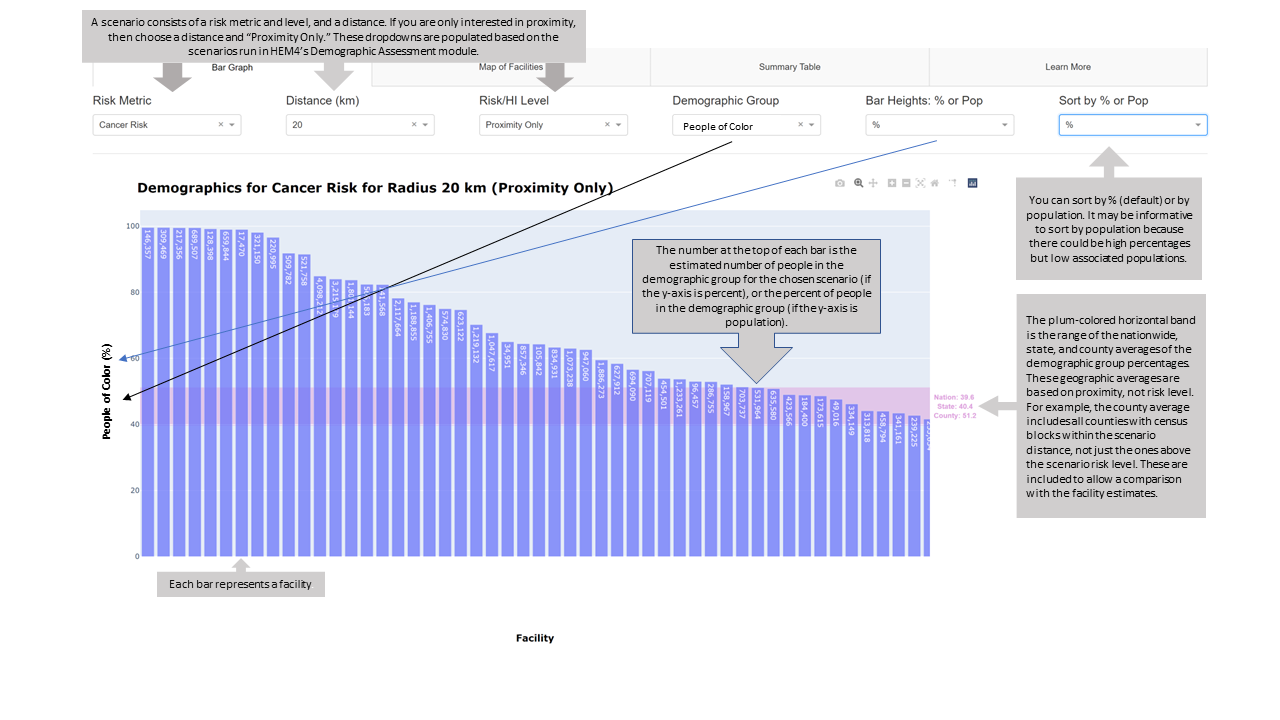
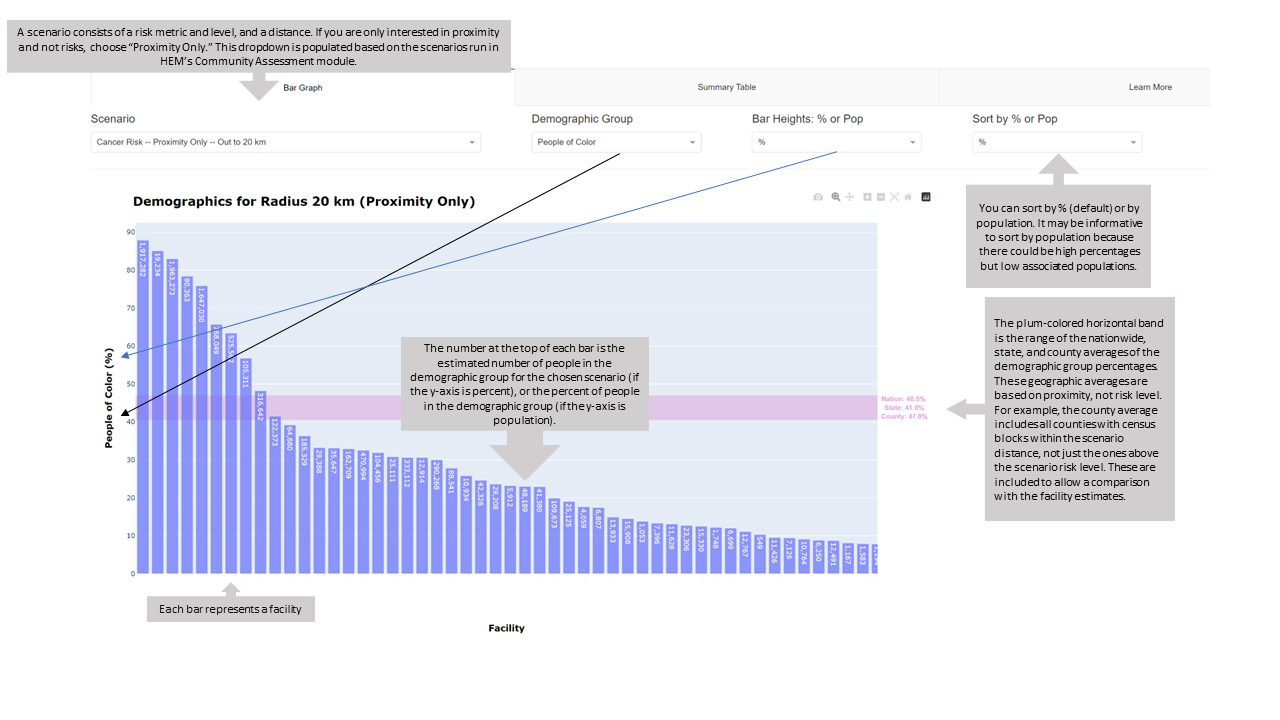
Alleviate memory overflows and updated the About Bar Graph image

diff --git a/com/sca/hem4/writer/excel/summary/MultiPathway.py b/com/sca/hem4/writer/excel/summary/MultiPathway.py
@@ -3,6 +3,7 @@ from com.sca.hem4.writer.excel.FacilityMaxRiskandHI import FacilityMaxRiskandHI
 from com.sca.hem4.writer.excel.RiskBreakdown import *
 from com.sca.hem4.writer.excel.InputSelectionOptions import InputSelectionOptions
 from com.sca.hem4.log.Logger import Logger
+import os
 
 risk_contrib = 'risk_contrib'
 category = 'category'
@@ -140,32 +141,64 @@ class MultiPathway(ExcelWriter):
             anyOuters = "N"
             for f in listOuter:
                 allouter = AllOuterReceptors(targetDir=targetDir, acuteyn=acute_yn, filenameOverride=f)
-                allouter_df = allouter.createDataframe()
+                
+                # If AllOuter file is over 1GB, then use chunking option in read_csv
+                fpath = os.path.join(targetDir, f)
+                if os.path.getsize(fpath) < 10000000000:
+                    allouter_df = allouter.createDataframe()
+                    usechunks = "N"
+                else:
+                    allouter_chunks = allouter.createBigDataframe(fpath)
+                    usechunks = "Y"
 
-                if not allouter_df.empty:
+                if usechunks == "N":
                     
-                    anyOuters = "Y"
-                    
-                    # Only keep populated or user receptors that are not overlapped
-                    allouter_df = allouter_df.loc[((allouter_df[population] > 0) | (allouter_df[rec_type] == 'P')) &
-                                                  (allouter_df[overlap] == 'N')]
-#                    # Only keep records that have non-zero population or represent non-overlapped user receptors
-#                    allouter_df = allouter_df.loc[((allouter_df[block].str.contains('U')) | (allouter_df[population] > 0)) &
-#                                                  (allouter_df[overlap] == 'N')]
-    
-                    allouter_df = allouter_df.groupby(by=[fips, block, population, lat, lon, pollutant], as_index=False) \
-                        .sum().reset_index(drop=True)
-    
-                    allouter_df['risk'] = allouter_df.apply(lambda x: self.calculateRisk(x[pollutant], x[conc]), axis=1)
-    
-                    # keep all records but give default designation of 'POL' to pollutants which are not in crosswalk
-                    alloutermerged_df = allouter_df.merge(pollutantCrosswalk_df, left_on=[pollutant], right_on=[pollutant_name], how="left")
-                    alloutermerged_df[designation] = alloutermerged_df[designation].fillna('POL')
-    
-                    outer_summed = alloutermerged_df.groupby(by=[fips, block, population, lat, lon, designation], as_index=False) \
-                        .sum().reset_index(drop=True)
-                    allouter_summed = pd.concat([allouter_summed, outer_summed])
+                    if not allouter_df.empty:
+                        
+                        anyOuters = "Y"
+                        
+                        # Only keep populated or user receptors that are not overlapped
+                        allouter_df = allouter_df.loc[((allouter_df[population] > 0) | (allouter_df[rec_type] == 'P')) &
+                                                      (allouter_df[overlap] == 'N')]
+                        allouter_df = allouter_df.groupby(by=[fips, block, population, lat, lon, pollutant], as_index=False) \
+                            .sum().reset_index(drop=True)
+        
+                        allouter_df['risk'] = allouter_df.apply(lambda x: self.calculateRisk(x[pollutant], x[conc]), axis=1)
+        
+                        # keep all records but give default designation of 'POL' to pollutants which are not in crosswalk
+                        alloutermerged_df = allouter_df.merge(pollutantCrosswalk_df, left_on=[pollutant], right_on=[pollutant_name], how="left")
+                        alloutermerged_df[designation] = alloutermerged_df[designation].fillna('POL')
+                                
+                        outer_summed = alloutermerged_df.groupby(by=[fips, block, population, lat, lon, designation], as_index=False) \
+                            .sum().reset_index(drop=True)
+                        allouter_summed = pd.concat([allouter_summed, outer_summed])
 
+                else:
+                    
+                    # AllOuter is in chunks
+                    for allouter_df in allouter_chunks:
+                        
+                        if not allouter_df.empty:
+                            
+                            anyOuters = "Y"
+                            
+                            # Only keep populated or user receptors that are not overlapped
+                            allouter_df = allouter_df.loc[((allouter_df[population] > 0) | (allouter_df[rec_type] == 'P')) &
+                                                          (allouter_df[overlap] == 'N')]
+                            allouter_df = allouter_df.groupby(by=[fips, block, population, lat, lon, pollutant], as_index=False) \
+                                .sum().reset_index(drop=True)
+            
+                            allouter_df['risk'] = allouter_df.apply(lambda x: self.calculateRisk(x[pollutant], x[conc]), axis=1)
+            
+                            # keep all records but give default designation of 'POL' to pollutants which are not in crosswalk
+                            alloutermerged_df = allouter_df.merge(pollutantCrosswalk_df, left_on=[pollutant], right_on=[pollutant_name], how="left")
+                            alloutermerged_df[designation] = alloutermerged_df[designation].fillna('POL')
+            
+                            outer_summed = alloutermerged_df.groupby(by=[fips, block, population, lat, lon, designation], as_index=False) \
+                                .sum().reset_index(drop=True)
+                            allouter_summed = pd.concat([allouter_summed, outer_summed])
+                        
+                        
             if anyOuters == "Y":
                 riskblocks_df = pd.concat([inner_summed, allouter_summed])
             else:

diff --git a/com/sca/hem4/support/ElevHill.py b/com/sca/hem4/support/ElevHill.py
@@ -40,71 +40,29 @@ class ElevHill:
         Using USGS 10m resolution DEM data, get elevations for a list of coordinates
         where the coordinates are a list of tuples organized as (longitude, latitude).
         """
+
         # Get elevations for batches of 100 coordinates
-        
-        # First determine what resolution of elevation data is available
-        min_x = min(coords)[0]
-        min_y = min(coords)[1]
-        max_x = max(coords)[0]
-        max_y = max(coords)[1]
-        
-        # If there is only a single coordinate or they are all the same, create a 1x1km box.
-        if min_x == max_x or min_y == max_y:
-            r_earth = 6371 # radius of earth in km
-            lat2 = min_y  + (0.5 / r_earth) * (180 / pi)
-            lon2 = min_x + (0.5 / r_earth) * (180 / pi) / cos(np.deg2rad(min_y))
-            lat1 = min_y  - (0.5 / r_earth) * (180 / pi)
-            lon1 = min_x - (0.5 / r_earth) * (180 / pi) / cos(np.deg2rad(min_y))
-        else:
-            lat1 = min_y
-            lon1 = min_x
-            lat2 = max_y
-            lon2 = max_x
-                    
-        bbox = (lon1, lat1, lon2, lat2)
-        # try:
-        #     src = py3dep.query_3dep_sources(bbox)
-        # except BaseException as e:
-        #     raise ValueError("USGS elevation server unavailable")
-        # else:
-        #     src_dict = src.groupby('dem_res')['OBJECTID'].count().to_dict()
-        
-        
-        # If Canada, use airmap (30m) otherwise use 10m
-        if min_y > 42 and max_y < 83 and min_x > -141 and max_x < -53:
-            ressrc = 'airmap'
-        else:
-            ressrc = 'tep'
-            # if '10m' in src_dict:
-            #     ressrc = 'tep'
-            # else:
-            #     if '30m' in src_dict:
-            #         ressrc = 'airmap'
-            #     else:
-            #         ressrc = 'None'
-            #         raise ValueError("USGS elevation server unavailable")
-        
-        print("Elevation bycoords using source ", ressrc)
-                    
+                          
         elevation_data = []
         batch_size = 100
-        if len(coords) > 1:
-            for i in range(0, len(coords), batch_size):
-                batch = coords[i:i+batch_size]
-                
-                try:
-                    batch_elev = py3dep.elevation_bycoords(batch, source=ressrc)
-                except BaseException as e:
-                    raise ValueError("USGS elevation server unavailable")
-                else:
-                    elevation_data.extend(batch_elev)
-        else:
+        for i in range(0, len(coords), batch_size):
+            batch = coords[i:i+batch_size]
+            
             try:
-                batch_elev = py3dep.elevation_bycoords(coords, source=ressrc)
+                # first try to use 10m elevation data
+                batch_elev = py3dep.elevation_bycoords(batch, source='tep')
             except BaseException as e:
-                raise ValueError("USGS elevation server unavailable")
+                # 10m did not work. Now try 30m.
+                try:
+                    batch_elev = py3dep.elevation_bycoords(batch, source='airmap')
+                except BaseException as e:
+                    # 30m failed too
+                    raise ValueError("USGS elevation server unavailable")
             else:
-                elevation_data.append(batch_elev)
+                if len(coords) > 1:
+                    elevation_data.extend(batch_elev)
+                else:
+                    elevation_data.append(batch_elev)
 
         elev_rounded = [round(e) for e in elevation_data]
         
@@ -228,7 +186,7 @@ class ElevHill:
         center_lat : Float
             Latitude of center of the receptors.
         model : Class
-            Model class used to hold 30m elevation dataframe
+            Model class used to hold 30m elevation dataframe for this facility
 
         Returns
         -------

diff --git a/com/sca/hem4/writer/csv/AllOuterReceptors.py b/com/sca/hem4/writer/csv/AllOuterReceptors.py
@@ -820,7 +820,7 @@ class AllOuterReceptors(CsvWriter, InputFile):
         return df.fillna("")
     
 
-    def createBigDataframe(self):
+    def createBigDataframe(self, fname):
         # Type setting for CSV reading
         if self.acute_yn == 'N':
             self.numericColumns = [lat, lon, conc, elev, population]
@@ -829,10 +829,14 @@ class AllOuterReceptors(CsvWriter, InputFile):
             
         self.strColumns = [fips, block, source_id, 'emis_type', pollutant, overlap, rec_type]
 
+        dtypes = {col: str for col in self.strColumns}
+        floatTypes = {col: np.float64 for col in self.numericColumns}
+        dtypes.update(floatTypes)
+
         colnames = self.getColumns()
         self.skiprows = 1
-        reader = pd.read_csv(f, skiprows=self.skiprows, names=colnames, dtype=str, 
-                             na_values=[''], keep_default_na=False, chunksize=100000)
+        reader = pd.read_csv(fname, skiprows=self.skiprows, names=colnames, dtype=dtypes, 
+                             na_values=[''], keep_default_na=False, chunksize=1000000)
 
         return reader
     

diff --git a/com/sca/hem4/gui/EJ.py b/com/sca/hem4/gui/EJ.py
@@ -136,7 +136,7 @@ class EJ(Page):
                                            justify="left", text=step3_text)
         self.step3_instructions.grid(row=1, column=1, padx=5, sticky="W", columnspan=4, rowspan=3)
 
-        self.add_config(initYN="Y", radius=50, cancer_risk=1, hi_risk=1)
+        self.add_config(initYN="Y", radius=None, cancer_risk=None, hi_risk=None)
         self.create_add_config()
 
         ru = PIL.Image.open('images\icons8-create-48.png').resize((30,30))
@@ -180,7 +180,7 @@ class EJ(Page):
 
         self.combinations = {}
 
-        self.add_config(initYN="Y", radius=50, cancer_risk=1, hi_risk=1)
+        self.add_config(initYN="Y", radius=None, cancer_risk=None, hi_risk=None)
 
         if self.add_config_btn is None:
             self.create_add_config()
